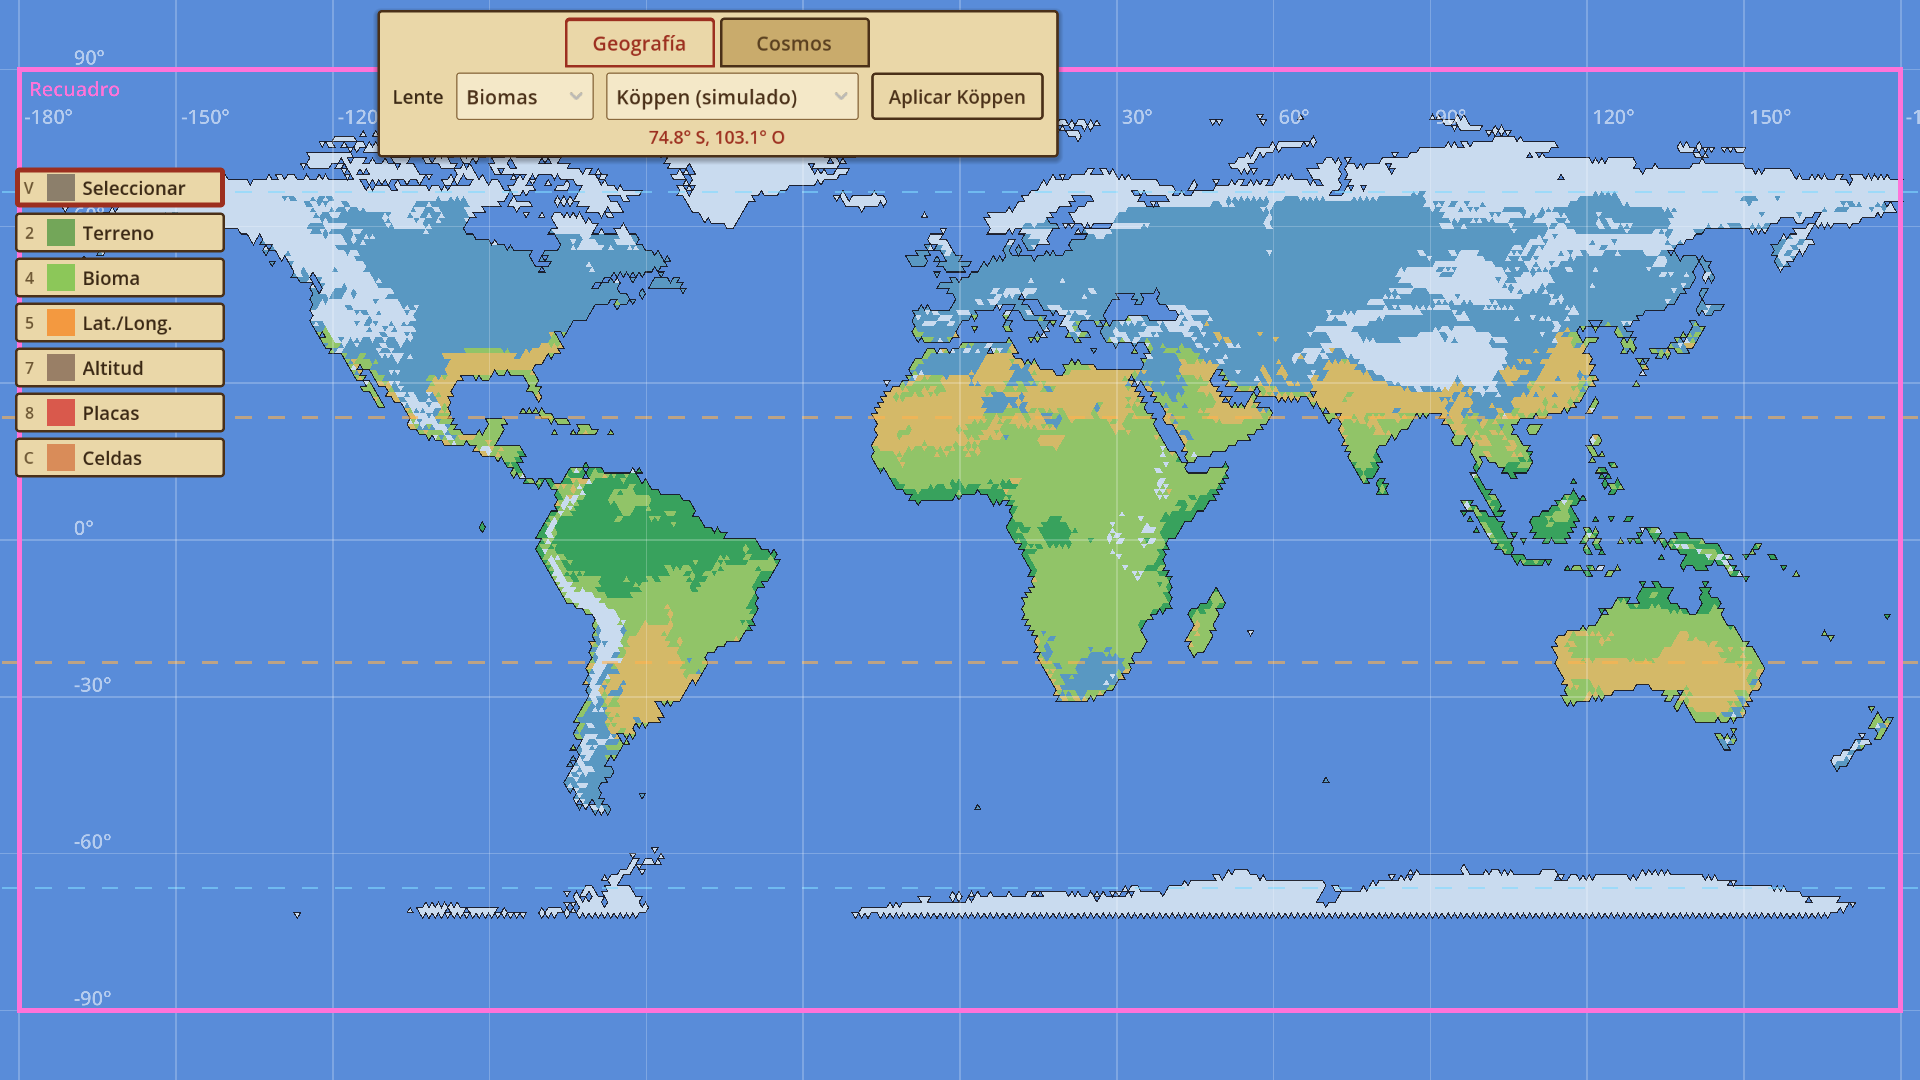
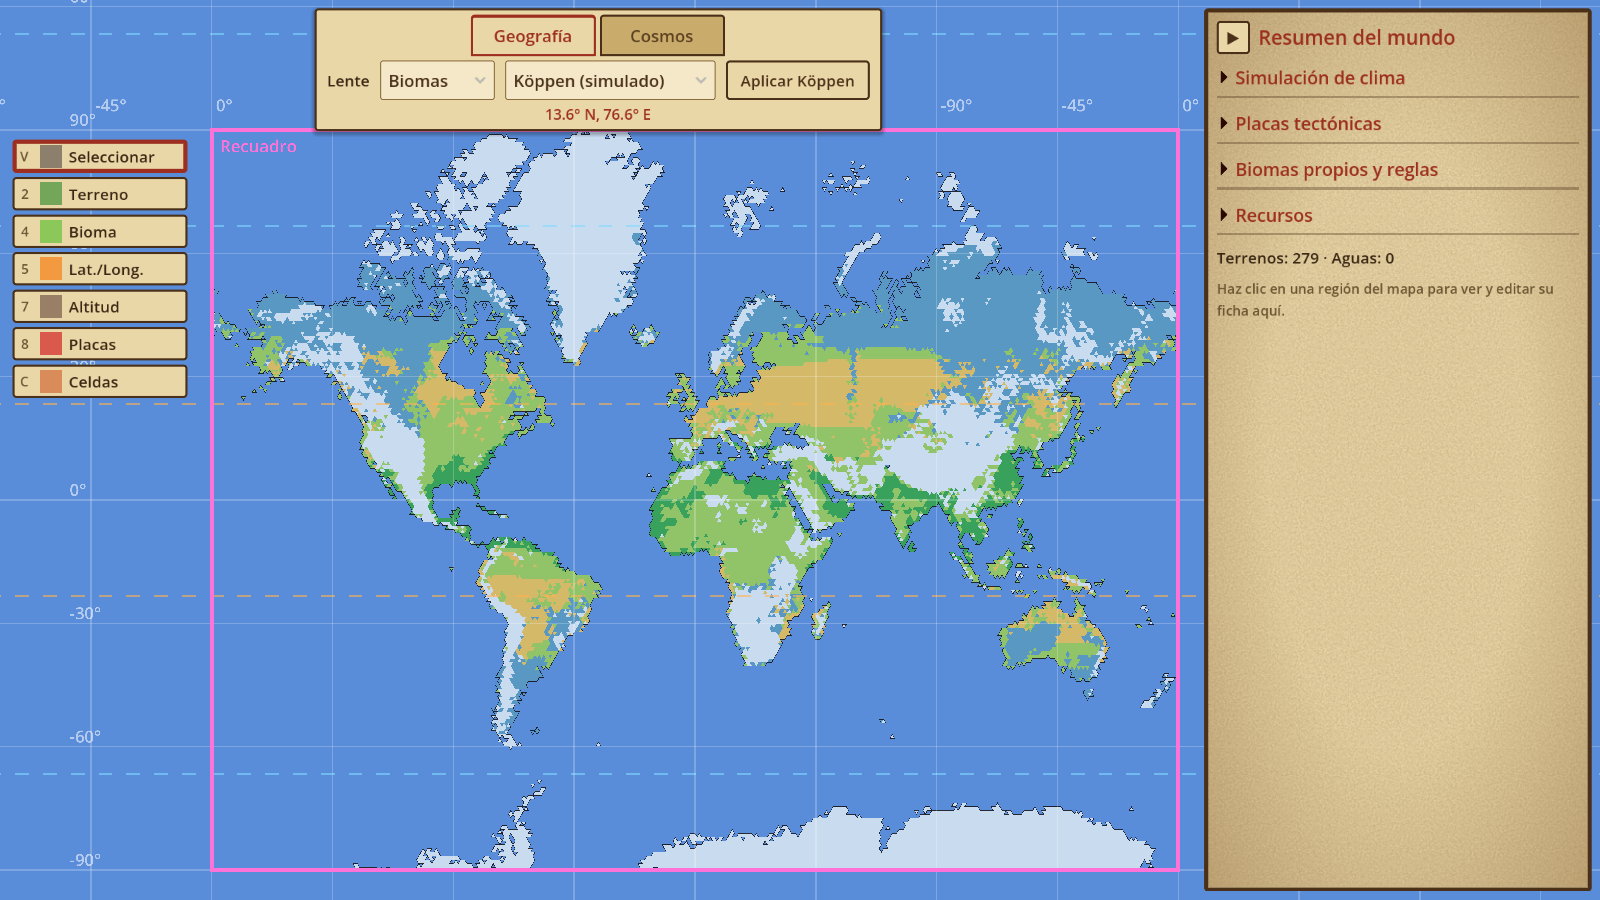
Screenshots: only the new batch (relief, koppen, holdridge replace the old ones)

diff --git a/README.md b/README.md
@@ -30,7 +30,7 @@ An Earth-like planet imported from a hypsometric map with the Import map tool.
 
 ![Simulated Koppen climate](screenshots/koppen.png)
 
-![Biomes](screenshots/biomes.png)
+![Holdridge life zones](screenshots/holdridge.png)
 
 Temperature at local noon, everywhere at once:
 
